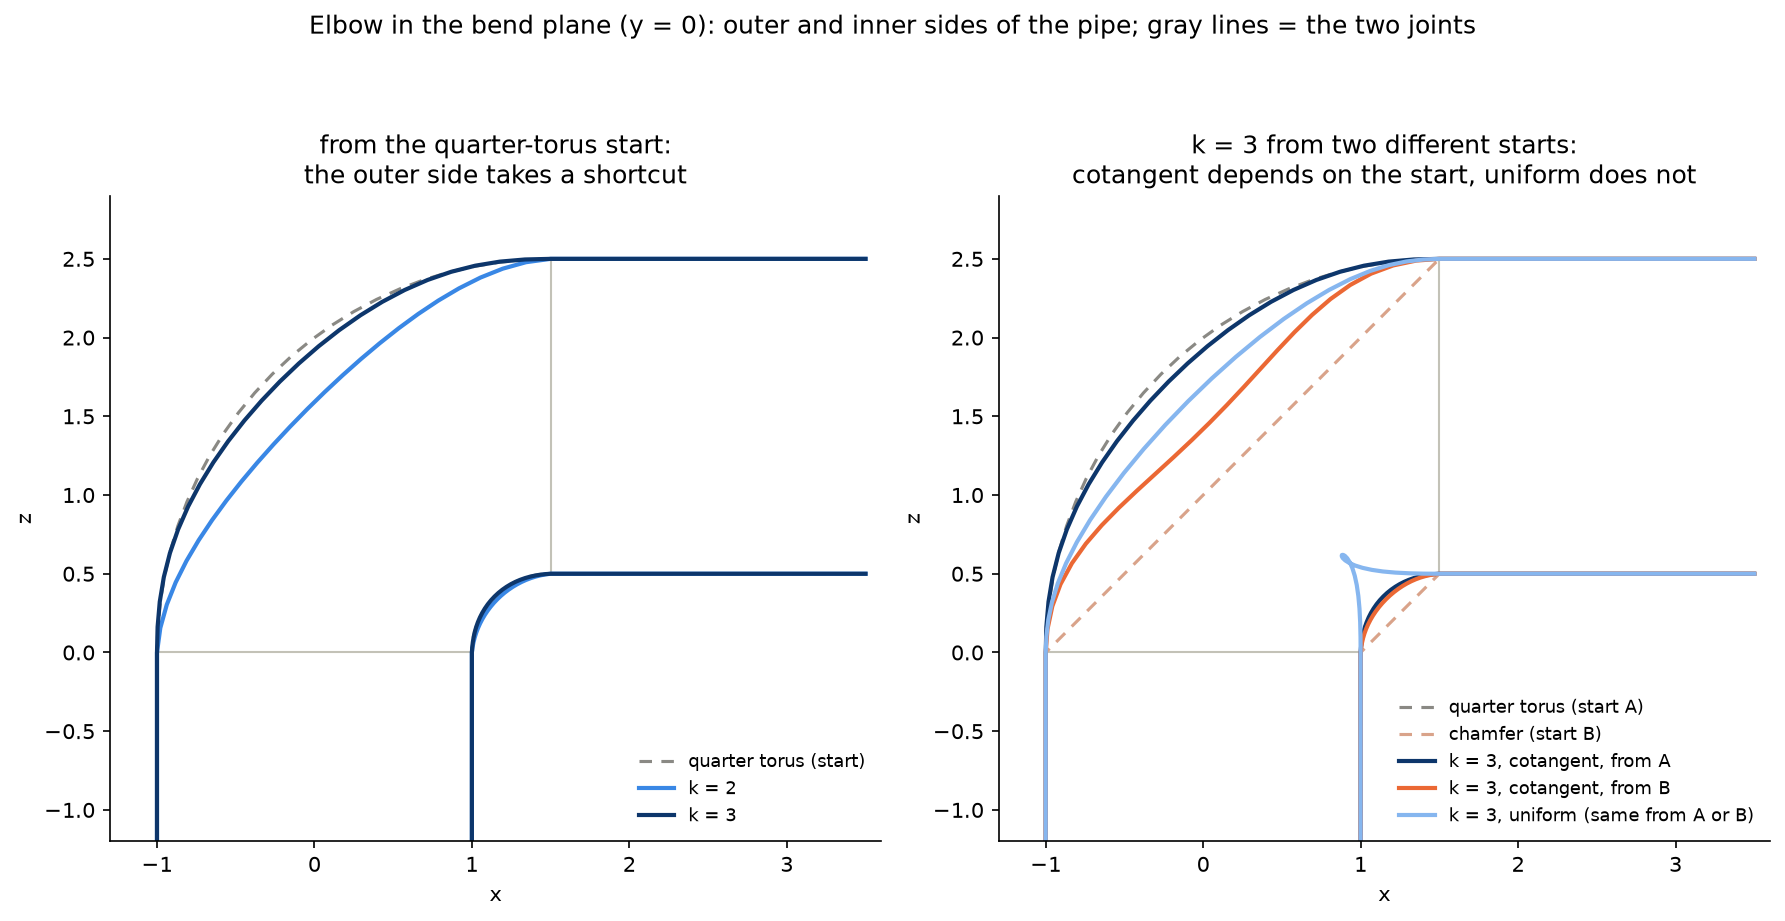
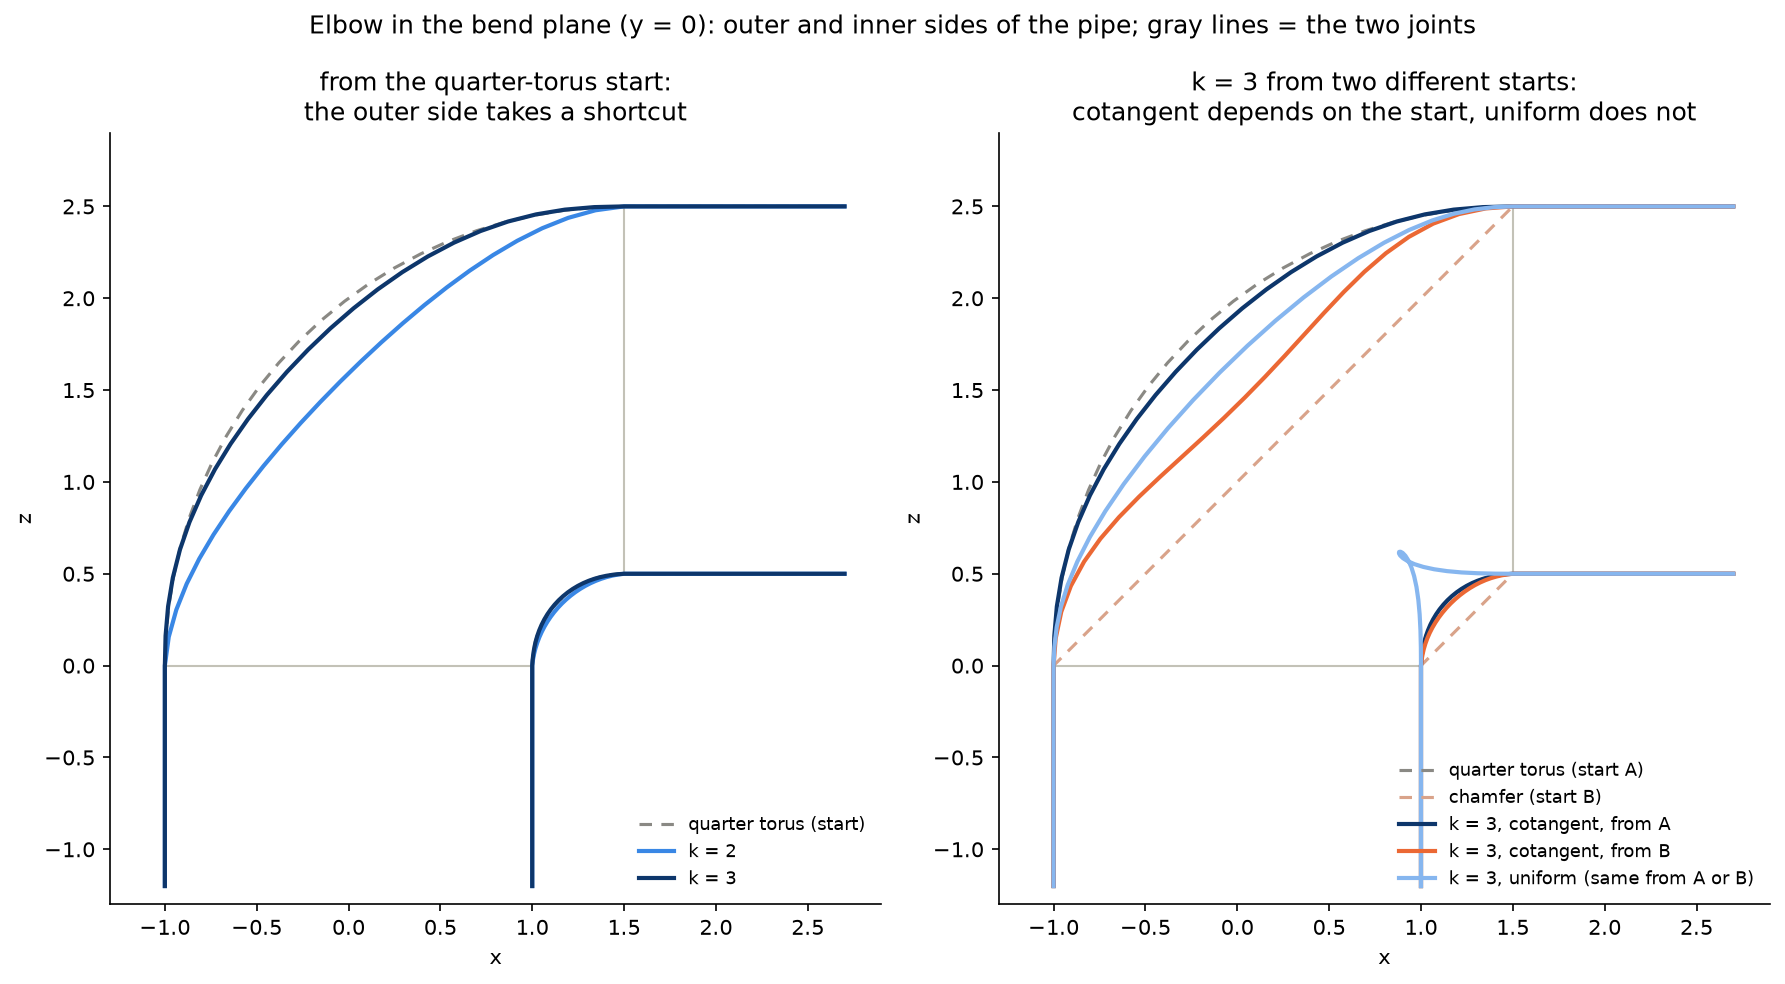
Elbow: book proportions, weights-origin investigation, pipe-length invariance (#11)
- pipe_elbow defaults to pipes 1.2 long (close to the book's figure)
- 11-elbow-weights.png: k = 3 with weights from the torus vs a straight tube
- test: the pipe length does not change the bend (only k fixed rings matter)
- phase-4 note: what Botsch & Kobbelt 2004 says, what we tested, conclusion

diff --git a/examples/04_fairing.py b/examples/04_fairing.py
@@ -5,8 +5,8 @@ Run from the repository root:
     python examples/04_fairing.py
 
 Saves docs/img/09-sparsity.png, docs/img/10-membrane.png,
-docs/img/10-two-membranes.png, docs/img/11-tube-k123.png, docs/img/11-profile.png, docs/img/11-elbow-k123.png and
-docs/img/11-elbow-profiles.png.
+docs/img/10-two-membranes.png, docs/img/11-tube-k123.png, docs/img/11-profile.png, docs/img/11-elbow-k123.png,
+docs/img/11-elbow-profiles.png and docs/img/11-elbow-weights.png.
 """
 
 from pathlib import Path
@@ -21,6 +21,7 @@ from matplotlib.ticker import NullFormatter
 from fairing import mesh, viz
 from fairing.fairing import fairing_matrix, solve_fair
 from fairing.laplacian import mean_curvature
+from sksparse.cholmod import cho_factor
 
 IMG = Path(__file__).resolve().parents[1] / "docs" / "img"
 
@@ -284,8 +285,8 @@ def figure_elbow_profiles():
             ax.plot(rings(V)[j, [0, n_theta // 2], 0], rings(V)[j, [0, n_theta // 2], 2],
                     color="#c3c2b7", lw=1, zorder=0)
         ax.set_aspect("equal")
-        ax.set_xlim(-1.3, 3.6)
-        ax.set_ylim(-1.2, 2.9)
+        ax.set_xlim(-1.3, 2.9)
+        ax.set_ylim(-1.3, 2.9)
         ax.set_xlabel("x")
         ax.set_ylabel("z")
         for side in ("top", "right"):
@@ -298,6 +299,55 @@ def figure_elbow_profiles():
     print("saved", IMG / "11-elbow-profiles.png")
 
 
+# --- Investigation: where did Fig. 4.8's weights come from? -------------------------------
+# Botsch & Kobbelt 2004 (the source of Fig. 4.8) compute L once on the *original* surface and
+# move a handle. For a bent pipe, the original was plausibly a straight tube. These two helpers
+# compare that with our choice (weights from the quarter torus). Not part of the library.
+
+def straight_tube_like(V, n_theta, pipe_length=1.2, spacing=0.1):
+    """A straight vertical tube with the same rings as the elbow: ring j at z = (j - n_pipe) * spacing,
+    so the bottom pipe coincides with the elbow's and the bend rings continue straight up."""
+    n_rings = len(V) // n_theta
+    n_pipe = int(round(pipe_length / spacing))
+    theta = 2 * np.pi * np.arange(n_theta) / n_theta
+    z = (np.arange(n_rings) - n_pipe) * spacing
+    return np.stack([np.tile(np.cos(theta), n_rings), np.tile(np.sin(theta), n_rings), np.repeat(z, n_theta)], 1)
+
+
+def solve_with_weights_from(G, V, F, free, k):
+    """Like solve_fair, but the matrix is built from geometry G instead of V (the paper's setting)."""
+    A = fairing_matrix(G, F, k)
+    W = V.copy()
+    W[free] = cho_factor(A[free][:, free].tocsc()).solve(-(A[free][:, ~free] @ V[~free]))
+    return W
+
+
+def figure_elbow_weights():
+    """Issue #11 (investigation): k = 3 with weights from the quarter torus vs from a straight tube,
+    for several bend radii."""
+    radii = (1.25, 1.5, 2.0, 3.0)
+    columns = ("quarter torus (start)", "k = 3, weights from the torus", "k = 3, weights from a straight tube")
+    fig = plt.figure(figsize=(11, 13))
+    for row, Rb in enumerate(radii):
+        V, F, free = mesh.pipe_elbow(bend_radius=Rb)
+        face_free = free[F].any(axis=1)
+        results = (V, solve_fair(V, F, free, 3),
+                   solve_with_weights_from(straight_tube_like(V, 48), V, F, free, 3))
+        for col, W in enumerate(results):
+            ax = fig.add_subplot(len(radii), 3, 3 * row + col + 1, projection="3d")
+            for faces, color in ((F[~face_free], "#d9d8d4"), (F[face_free], "#5b62c9")):
+                ax.plot_trisurf(W[:, 0], W[:, 1], W[:, 2], triangles=faces, color=color,
+                                shade=True, linewidth=0, antialiased=False)
+            viz._set_equal_aspect(ax, W)
+            ax.view_init(10, -100)
+            ax.set_axis_off()
+            ax.set_title(f"bend radius {Rb}: {columns[col]}", fontsize=8.5)
+    fig.suptitle("Where do the weights come from? k = 3 elbows (pipe radius 1)", y=1.0)
+    fig.tight_layout()
+    fig.savefig(IMG / "11-elbow-weights.png", dpi=120, bbox_inches="tight")
+    print("saved", IMG / "11-elbow-weights.png")
+
+
 if __name__ == "__main__":
     IMG.mkdir(parents=True, exist_ok=True)
     figure_sparsity()
@@ -307,3 +357,4 @@ if __name__ == "__main__":
     figure_profile()
     figure_elbow()
     figure_elbow_profiles()
+    figure_elbow_weights()

diff --git a/fairing/mesh.py b/fairing/mesh.py
@@ -135,7 +135,7 @@ def tube(n_theta, n_z, radius=1.0, height=2.0):
     return V, _quad_faces(n_theta, n_z, wrap_u=True)
 
 
-def pipe_elbow(n_theta=48, radius=1.0, bend_radius=1.5, pipe_length=2.0, spacing=0.1):
+def pipe_elbow(n_theta=48, radius=1.0, bend_radius=1.5, pipe_length=1.2, spacing=0.1):
     """Two pipes at 90 degrees joined by a quarter-torus bend (the setting of Fig. 4.8).
 
     A vertical pipe (axis z, from z = -pipe_length to 0) and a horizontal pipe
@@ -149,6 +149,9 @@ def pipe_elbow(n_theta=48, radius=1.0, bend_radius=1.5, pipe_length=2.0, spacing
 
     Returns ``V, F, bend`` where ``bend`` is a boolean mask of the bend's
     vertices (the free region of Fig. 4.8); the two straight pipes are the rest.
+    The default proportions (pipes 1.2 long for radius 1) are close to the
+    book's figure; the pipe length does not change the fairing result as long
+    as each pipe has at least k rings (only those enter the equations).
     """
     n_bend = int(round(bend_radius * np.pi / 2 / spacing))       # bend segments, each ~ spacing long
     n_pipe = int(round(pipe_length / spacing))                    # segments per straight pipe

diff --git a/tests/test_fairing.py b/tests/test_fairing.py
@@ -190,3 +190,14 @@ def test_refinement_reveals_C_k_minus_1_continuity(k, low, high):
         V, F, free = tube_blend(n_theta, n_z)
         angles.append(joint_turning_angle(solve_fair(V, F, free, k), n_theta, n_z, free))
     assert low < angles[1] / angles[0] < high
+
+
+def test_pipe_length_does_not_change_the_elbow():
+    # Only the k rings of fixed vertices next to the free region enter A_fc, so pipes of any
+    # length (with at least k rings) give exactly the same bend.
+    from fairing.mesh import pipe_elbow
+    bends = []
+    for length in (0.4, 1.2):
+        V, F, bend = pipe_elbow(n_theta=24, pipe_length=length, spacing=0.1)
+        bends.append(solve_fair(V, F, bend, 3)[bend])
+    assert np.allclose(bends[0], bends[1], atol=1e-9)

diff --git a/docs/phases/phase-4.md b/docs/phases/phase-4.md
@@ -175,7 +175,7 @@ Tests (`tests/test_fairing.py`): rings 1–3 around the free region end before t
 - *Left:* k = 1 bulges inward (toward x < 1) and meets the bands at an angle. k = 2 and 3 are S-shaped curves that leave each band tangentially; k = 3 is a bit straighter in the middle.
 - *Right, zoom on the bottom joint:* the k = 1 profile breaks away from the vertical line with a visible kink. k = 2 and k = 3 start out vertical, tangent to the fixed tube.
 
-**A second example: Fig. 4.8's two pipes at 90°.** `pipe_elbow` in `fairing/mesh.py` builds the book's setting. A vertical pipe and a horizontal pipe, both fixed, are joined by a free bend. The mesh reuses the tube's connectivity; only the ring positions change. Each ring has a center on the bend's axis and an in-plane direction that turns with the bend, so the triangles stay consistently oriented. The free bend starts as an exact quarter torus (bend radius 1.5, pipe radius 1), a clean surface for the frozen weights (#10). It was first written in the example script, and moved to the library once the polyscope viewer needed it too.
+**A second example: Fig. 4.8's two pipes at 90°.** `pipe_elbow` in `fairing/mesh.py` builds the book's setting. A vertical pipe and a horizontal pipe, both fixed, are joined by a free bend. The mesh reuses the tube's connectivity; only the ring positions change. Each ring has a center on the bend's axis and an in-plane direction that turns with the bend, so the triangles stay consistently oriented. The free bend starts as an exact quarter torus (bend radius 1.5, pipe radius 1, fixed pipes 1.2 long, proportions close to the book's figure), a clean surface for the frozen weights (#10). It was first written in the example script, and moved to the library once the polyscope viewer needed it too.
 
 ![Two pipes at 90 degrees, k = 1, 2, 3](../img/11-elbow-k123.png)
 
@@ -190,19 +190,6 @@ On the outer side of the bend (θ = π), the joint angle at the vertical pipe, a
 - k = 3: 1.38° / 0.39° / 0.10° (≈ ∝ h², C²).
 
 That is the same law as the straight tube, more pronounced because a 90° turn needs much more bending.
-
-**Why a first version looked flatter than the book's figure.** Two reasons.
-1. *Rendering.* The book's images are lit: brightness follows the surface orientation, which the eye reads as roundness. Colored matplotlib surfaces are unlit, and the first version was seen exactly from the side, in the plane of the bend, which flattens a tube into a band. Hence the lit top row and the camera matched to the book.
-2. *Geometry: the linearized energies shrink the tube.* The cross-section in the middle of the bend really does get thinner. Thinnest ring radius, starting from 1:
-
-| bend radius (free centerline length) | k = 2 | k = 3 |
-|---|---|---|
-| 2.5 (3.9), the first version | 0.69 | 0.87 |
-| 2.0 (3.1) | 0.80 | 0.92 |
-| 1.5 (2.4), the figure above | 0.87 | 0.96 |
-| 1.25 (2.0) | 0.90 | 0.98 |
-
-   The weights are frozen, so a free cross-section of radius r is measured against the parametrization of the starting surface. Going around the pipe, the second derivative has size ∝ r, so the linearized bending energy ∫‖x_uu‖² + … gets **smaller** when r shrinks. The true curvature energy does the opposite: the curvature around a pipe is 1/r, so a thinner pipe is *more* bent. Only the fixed rings at the ends hold the radius, so the longer the free region relative to the radius, the more it shrinks. The same tendency shows in the pinched waist of the straight tube and in the shrinking of Laplacian smoothing (#7–#8).
 
 **Where do the free region's starting points come from, and what do they do?** Every example builds the free vertices' starting positions itself, before calling `solve_fair`:
 - *Membrane (#10):* the target height plus noise (or no noise, for a "smooth start").
@@ -223,9 +210,41 @@ The experiment below solves k = 3 from two different starts: the quarter torus (
 
 So part of why our k = 3 elbow looks close to round is that it started round. With the book's linear method, a different start (whatever the book's authors used, which is not stated) gives a different result.
 
-**Viewing it with proper shading.** matplotlib shades each triangle flatly and has no specular highlights, while the book's image has a bright highlight along the bend, a strong roundness cue. `examples/04_polyscope_elbow.py` shows the start and the k = 1, 2, 3 results side by side in polyscope, with smooth shading, gray fixed pipes and a blue free bend (see the README).
+**Why does our k = 3 elbow look a little less round than Fig. 4.8? An investigation.**
 
-Fig. 4.8 is taken from another paper (Botsch & Kobbelt 2004), and the book does not give its exact setup (bend size, resolution, extent of the free region). So we reproduce its behavior, not necessarily its exact shapes.
+*The curvature, explained.* The quarter torus and the k = 3 surface must both turn the pipe through 90°. Along the outer side of the bend, a planar curve, the curvature integrated along the curve must therefore add up to π/2 in both cases. The torus spreads that turning evenly: its outer side is a circular arc with constant curvature 0.40 (= 1/2.5). That forces a jump from 0, on the straight pipe, to 0.40 right at each joint, so the torus is only C¹ there. The k = 3 solution must be C², so its curvature has to start at 0 at each joint and build up. Since the total turning is fixed, it has to make up for the missing bending elsewhere: its curvature rises to about 0.49 near the joints and dips to about 0.33 in the middle. A second effect adds to this. With the weights frozen from the torus, the linearized energy pulls the long outer side slightly inward, like a stretched rubber band: at 45° it sits 2.43 from the corner instead of 2.50, which flattens the middle further. The result bends more firmly near the pipes and is a little straighter in between. How much depends on the shape the weights were frozen from (see the starting-points experiment above).
+
+*What the original paper says.* Fig. 4.8 is Fig. 2 of Botsch & Kobbelt 2004 ("An Intuitive Framework for Real-Time Freeform Modeling"). The paper gives no mesh, dimensions or parameters for it, but four points are relevant:
+- Section 3 writes the quadratic energies with respect to a parametrization that should be locally as close as possible to isometric: the condition we derived in #10 for the substitute energy to behave like the real one.
+- Its Laplacian (Eq. 4) uses cotangent weights with *Voronoi* areas (citing Meyer et al. 2003); we use barycentric areas. Its constant, 2/A instead of 1/(2A), does not change the solution.
+- The framework *deforms an existing surface*: L is computed once on the original shape, a "handle" region is moved, and only the right-hand side changes. Another figure of the paper bends a straight tube this way. In its "anisotropic bending" section the paper even builds the Laplacian on a different geometry on purpose (a conformal parametrization of the region). So weights from a reference shape are a legitimate design choice *in modeling*, where an original surface exists. In hole filling (#14) there is no original surface for the hole, which is why that idea did not fit #10.
+- Orders above 3 are not recommended because of numerical instability.
+
+*What we tested.*
+- **Voronoi instead of barycentric areas** (a scratch experiment with the mixed Voronoi rule of moonshot M1): on this mesh the two kinds of area differ by less than 0.9%, and the k = 3 results by at most 4·10⁻⁴. This does not explain anything.
+- **Weights from a straight tube**, the likely setting of the paper's figure (`figure_elbow_weights` in the example). The tube has the same rings, so its bottom pipe coincides with ours and the bend rings continue straight up.
+
+![Where do the weights come from?](../img/11-elbow-weights.png)
+
+  `docs/img/11-elbow-weights.png`: rows are the bend radius; columns are the torus start, k = 3 with weights from the torus, and k = 3 with weights from the straight tube. With straight-tube weights the elbow is flatter and thinner, and its **inner side folds into a sharp crease**. A straight tube has all its meridians the same length, and the frozen weights remember that. But in a 90° bend the inner side must become much *shorter* than the outer side. Shortening one side of a tube is a rotation, which a linear system in the positions cannot produce smoothly, so it buckles. The book's figure has a smooth inner side, so it was probably not made this way, at least not with a mesh like ours.
+
+- **The bend's proportions.** All values are for k = 3 unless stated:
+
+| bend radius | thinnest ring, k = 2 / k = 3 | outer side at 45° (torus) | outer curvature near joints / middle (torus) | inner side, largest curvature: torus / torus weights / straight-tube weights |
+|---|---|---|---|---|
+| 1.25 | 0.90 / 0.98 | 2.21 (2.25, −1.7%) | 0.52 / 0.39 (0.44) | 4.0 / 3.9 / 29 |
+| **1.5 (our figure)** | 0.87 / 0.96 | 2.43 (2.50, −2.7%) | 0.49 / 0.33 (0.40) | 2.0 / 2.2 / **515** (a fold) |
+| 2.0 | 0.80 / 0.92 | 2.87 (3.00, −4.4%) | 0.44 / 0.25 (0.33) | 1.0 / 1.1 / 7.2 |
+| 2.5 | 0.69 / 0.87 | 3.29 (3.50, −6.0%) | 0.40 / 0.19 (0.29) | 0.7 / 0.8 / 2.6 |
+| 3.0 | 0.57 / 0.81 | 3.68 (4.00, −8.0%) | 0.38 / 0.14 (0.25) | 0.5 / 0.6 / 1.5 |
+
+  The longer the free bend relative to the pipe radius, the more the cross-section shrinks and the outer middle flattens. The cause is the same as for the tube's pinched waist and for smoothing (#7–#8): the weights are frozen, so a cross-section of radius r is measured against the starting surface's parametrization. Going around the pipe, the second derivative has size ∝ r, so the linearized bending energy ∫‖x_uu‖² + … gets *smaller* when r shrinks, the opposite of the true curvature energy (curvature 1/r). Only the fixed rings at the ends hold the radius. A tight elbow stays close to the torus; a loose one does not.
+- **The length of the fixed pipes changes nothing.** The constrained vertices enter the equations only through A_fc, i.e. through the k rings next to the free region. Pipes 2.0, 1.2 or 0.6 long give the same bend to round-off (largest difference 10⁻¹¹ for k = 3; `test_pipe_length_does_not_change_the_elbow`). Shorter pipes still make the bend *look* fuller, because the eye judges it relative to the pipes and each panel is zoomed to fit its mesh. Our figures now use pipes 1.2 long, close to the book's proportions.
+- **Rendering.** The book's image is smoothly shaded with a specular highlight along the bend; matplotlib shades each triangle flatly, and an early version of our figure was unlit and seen exactly from the side. Hence the lit top row, the camera matched to the book, and the polyscope viewer below.
+
+*Conclusion.* The book's figure is most consistent with a **tight** elbow whose weights come from an already **bent, round** shape: the family of our figure. Most of the visual difference was proportions, framing and shading. What remains is a real but small property of the linear method: k = 3 bends more near the joints and less in the middle (outer side 2.7% inside the torus for our proportions), more so the longer the free region and the farther the start is from the result.
+
+**Viewing it with proper shading.** matplotlib shades each triangle flatly and has no specular highlights, while the book's image has a bright highlight along the bend, a strong roundness cue. `examples/04_polyscope_elbow.py` shows the start and the k = 1, 2, 3 results side by side in polyscope, with smooth shading, gray fixed pipes and a blue free bend (see the README).
 
 **Pitfalls.**
 - *"Smooth" needs refinement to be tested.* At a single resolution, the k = 2 joint angle (6.9°) is not much larger than the turning inside the free region (4.7°), so one picture cannot separate "a small kink" from "a smooth bend". The C^(k−1) claim is about how the angle behaves as h → 0.

diff --git a/docs/phases/phase-1.md b/docs/phases/phase-1.md
@@ -30,7 +30,7 @@ This phase builds the tools that every later experiment relies on: a package, sy
 | open tube | `tube`, `mesh.py:125` | blend surfaces for k = 1, 2, 3 | Fig. 4.8 |
 | shared triangulation | `_quad_faces`, `mesh.py:18` | one diagonal ⇒ interior valence 6 | — |
 
-`save_obj` (`mesh.py:181`) and `load_obj` (`mesh.py:190`) read and write triangle meshes in OBJ format (indices are 1-based in the file, 0-based in `F`).
+`save_obj` (`mesh.py:184`) and `load_obj` (`mesh.py:193`) read and write triangle meshes in OBJ format (indices are 1-based in the file, 0-based in `F`).
 
 **What the figures show.** No figure yet; the first one (all four meshes) comes in #3.
 
@@ -69,10 +69,10 @@ To inspect a mesh interactively, run `examples/01_polyscope_one_mesh.py` (one me
 
 | Concept | Book | Code |
 |---|---|---|
-| edges (each counted once) | — | `edges`, `fairing/mesh.py:221` |
-| one-ring N₁(vᵢ), valence deg(vᵢ) | §3.3.1, Eq. 3.10 | `adjacency`, `mesh.py:226`; `one_rings`, `mesh.py:240` |
-| boundary: edges with one triangle | — | `boundary_vertices`, `mesh.py:250` |
-| n-ring neighborhood Nₖ, grown from a set | §3.3.1; §4.3 p. 60 | `ring_distance` (BFS), `mesh.py:260`; `k_ring`, `mesh.py:279` |
+| edges (each counted once) | — | `edges`, `fairing/mesh.py:224` |
+| one-ring N₁(vᵢ), valence deg(vᵢ) | §3.3.1, Eq. 3.10 | `adjacency`, `mesh.py:229`; `one_rings`, `mesh.py:243` |
+| boundary: edges with one triangle | — | `boundary_vertices`, `mesh.py:253` |
+| n-ring neighborhood Nₖ, grown from a set | §3.3.1; §4.3 p. 60 | `ring_distance` (BFS), `mesh.py:263`; `k_ring`, `mesh.py:282` |
 
 Checks in `tests/test_topology.py`: grid boundary 2(nx + ny) − 4, sphere 0, tube 2·n_theta. Interior valence 6, and k-ring sizes 1 + 3k(k+1), i.e. 7, 19, 37. The Euler characteristic V − E + F is 1 (disk), 2 (sphere), 0 (open cylinder). Distance from the grid boundary is min(i, j, nx−1−i, ny−1−j).
 

diff --git a/docs/PROGRESS.md b/docs/PROGRESS.md
@@ -23,7 +23,7 @@
 - **Explicit smoothing rebuilds L every step** (mean curvature flow for cotan). `explicit_step_limit` = 2/(λ|μ_min|), via `eigsh` on the symmetric D^½MD^½, with a fixed start vector so figures are reproducible.
 - **Implicit smoothing solves the symmetric (D⁻¹ − hλM)x' = D⁻¹x** with `factorized` (SuperLU), one factorization per step reused for x, y, z; L rebuilt each step, as in the explicit version.
 - **Solvers: Cholesky for fairing only.** From #9 on, the fairing solver uses a sparse Cholesky factorization (CHOLMOD, `sksparse.cholmod.cho_factor`), as App. A recommends for SPD systems. Implicit smoothing (#8) deliberately keeps SciPy's LU (`factorized`) and is not migrated. The contrast is part of the study.
-- **Fairing:** `solve_fair` builds A = (−1)ᵏM(DM)ᵏ⁻¹ once from the input V (book's linear method), solves A_ff x_f = −A_fc x_c with `cho_factor`, takes a boolean `free_mask`, and refuses an all-free mask.
+- **Fairing:** `solve_fair` builds A = (−1)ᵏM(DM)ᵏ⁻¹ once from the input V (book's linear method), solves A_ff x_f = −A_fc x_c with `cho_factor`, takes a boolean `free_mask`, and refuses an all-free mask. Only the k fixed rings next to the free region matter (pipe length is irrelevant). Fig. 4.8 investigation (phase-4 note): our k = 3 elbow differs from the book's mostly by proportions/shading; straight-tube weights would fold the inner side.
 - **Noise is measured by `roughness`** (mean angle between adjacent face normals), not by the radius spread, which mixes noise with shape change.
 - **Plots:** sequential blue for magnitudes, blue–gray–red for signed values; compared panels share one scale; NaN = "not shown" (gray), used for boundary vertices; planar meshes drawn from above.
 
